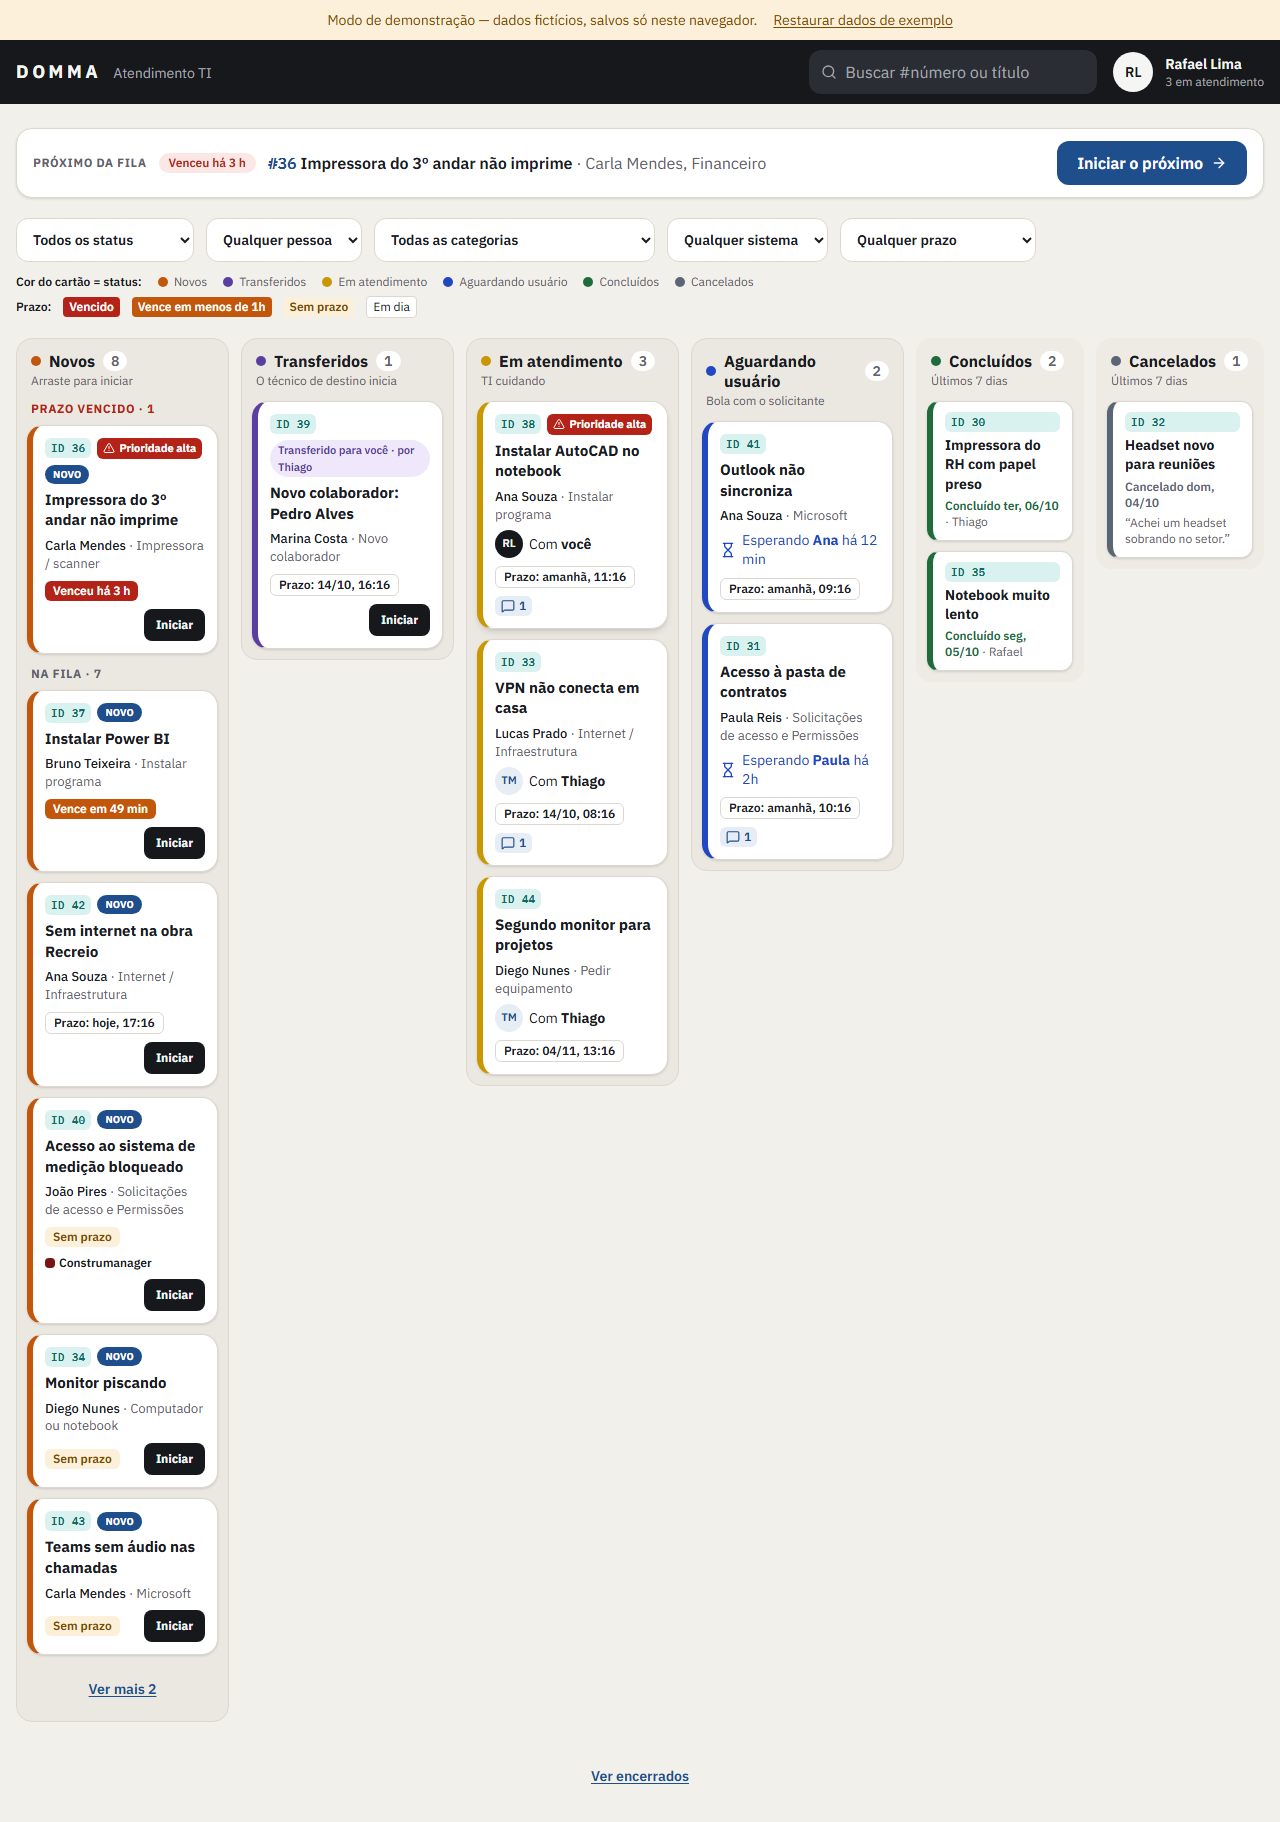
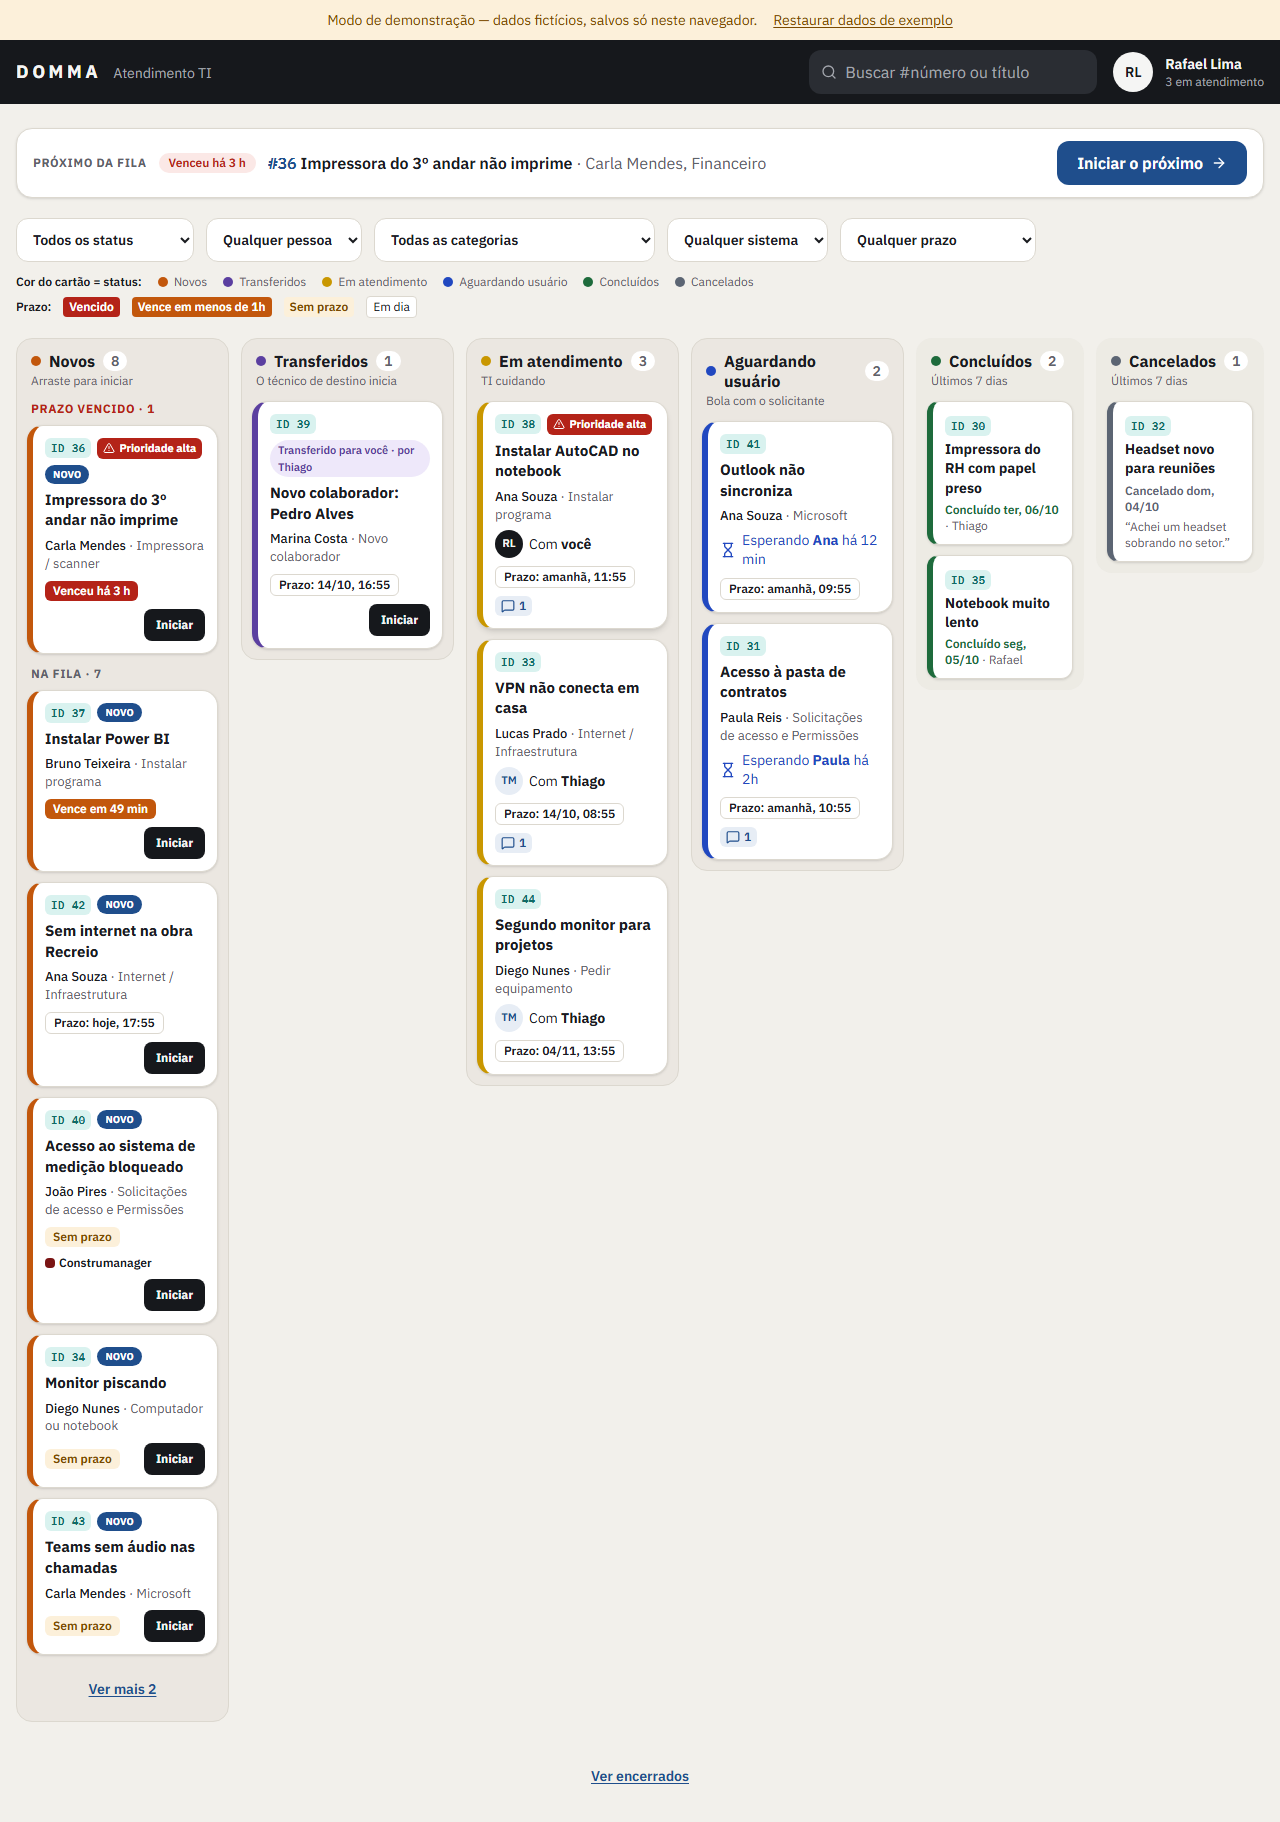
fix(quadro): etiqueta do ID sem esticar nos encerrados

Changed region(s): [[0.7188, 0.2151, 0.8438, 0.3996], [0.875, 0.2151, 0.9688, 0.3074]]

diff --git a/apps/web/components/tecnico/ChamadosEncerrados.tsx b/apps/web/components/tecnico/ChamadosEncerrados.tsx
@@ -67,7 +67,9 @@ export function ChamadosEncerrados() {
                   className="flex h-full overflow-hidden rounded-2xl border border-borda bg-superficie shadow-sm hover:shadow-md"
                 >
                   <span className="flex min-w-0 flex-1 flex-col gap-1.5 p-3">
-                    <EtiquetaId numero={c.id} />
+                    <span>
+                      <EtiquetaId numero={c.id} />
+                    </span>
                     <span className="leading-snug font-semibold">{c.titulo}</span>
                     <span className="truncate text-xs text-texto-suave">
                       {dados.perfil.get(c.solicitanteId)?.nome ?? "—"} ·{" "}

diff --git a/apps/web/components/tecnico/CartaoChamado.tsx b/apps/web/components/tecnico/CartaoChamado.tsx
@@ -83,7 +83,10 @@ function CartaoEncerrado({ dados, agora }: { dados: DadosCartao; agora: Date }) 
       aria-label={`Chamado ${c.id}: ${c.titulo}`}
       className={`flex flex-col gap-1 rounded-xl border border-l-[6px] border-borda px-3 py-2.5 shadow-sm ${cor.faixa} ${cor.fundo}`}
     >
-      <EtiquetaId numero={c.id} tom={TOM_ID} />
+      {/* Num bloco próprio: solta na coluna flex, a etiqueta esticava até o fim do cartão. */}
+      <div>
+        <EtiquetaId numero={c.id} tom={TOM_ID} />
+      </div>
       <Link
         href={`/atendimento/${c.id}`}
         className="text-sm leading-snug font-bold hover:underline"

diff --git a/docs/fases/STATUS.md b/docs/fases/STATUS.md
@@ -2,6 +2,7 @@
 
 | Etapa | Status | Observações |
 |---|---|---|
+| 2026-10-08 | Correção: a etiqueta "ID" dos cartões de Concluídos/Cancelados e da página "Ver encerrados" esticava até o fim do cartão. |
 | 2026-10-08 | **Equipamentos** (pedido do dono): "Novo colaborador" ("Quais equipamentos vai precisar?") e "Pedir equipamento" ("O que você precisa?") viram **marcar vários** com Notebook · Fone de Ouvido · Capa para Notebook · Monitor · Kit Mouse Teclado · Suporte Notebook; + "Não precisa de equipamento" no novo colaborador e "Outro" no pedir equipamento. Seed e modo simulado. |
 | 2026-10-08 | **Ajustes do Renato (visão do usuário)**: "Olá, [nome]!" no primeiro acesso; **sem telefone** (contato pelo Teams) e botão **"Falar no Teams"** na tela de atendimento (só um link, `lib/teams.ts`); sem "Na dúvida, use Outros"; botão **"Enviar chamado"** no fim do formulário (saiu do quadro lateral e do rodapé fixo do celular); sem cores dos sistemas no formulário (ficam só na área da TI); previsão **"Aguardando análise da TI"**; "Abrir outro/novo chamado". Abertas P-041 (setores do RH) e P-042 (ordem dos assuntos por volume). |
 | 2026-10-08 | Melhorias da TI (pedido do dono): **filtro por sistema** no quadro (`?sistema=Sienge`); **respostas prontas** no chat (só TI; texto entra no campo com o nome do solicitante; migration 0023 `respostas_prontas`, pgTAP 010); **cor dos sistemas no banco** (`campos_form.cores` com paleta fixa — migration 0022, pgTAP 009; tokens `sis-*` agora têm nome de cor). Nova pendência P-040 (aba **Dashboard** na Fase 2). Prints 07b e 08c. Teste de "avisos de mudança" do modo simulado deixou de depender do relógio (as automações por tempo disparavam no meio dele no CI). |
